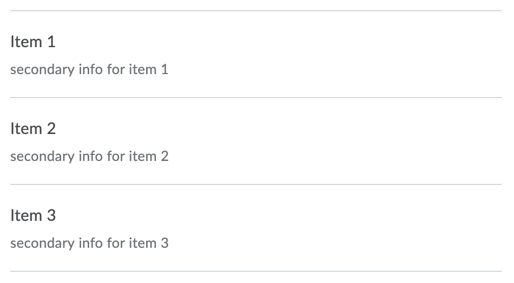
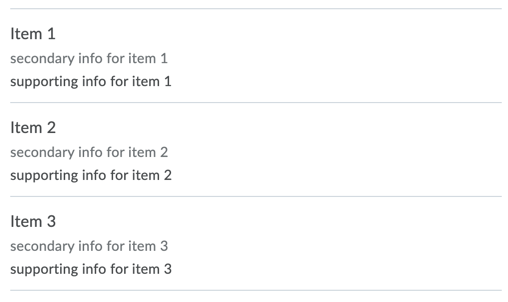
Update readme for d2l-list-item-button.

diff --git a/components/list/README.md b/components/list/README.md
@@ -2,7 +2,7 @@
 
 ## d2l-list
 
-The `d2l-list` is the container to create a styled list of items using `d2l-list-item`. It provide the appropriate `list` semantics as well as options for displaying separators, etc.
+The `d2l-list` is the container to create a styled list of items using `d2l-list-item` or `d2l-list-item-button`. It provide the appropriate `list` semantics as well as options for displaying separators, etc.
 
 ![List](./screenshots/list.png?raw=true)
 
@@ -58,7 +58,7 @@ The `grid` attribute will enable a table-like keyboard grid that allows a user t
 
 ## d2l-list-item
 
-The `d2l-list-item` provides the appropriate `listitem` semantics for children within a list. It also provides some basic layout, breakpoints for responsiveness, a link for navigation, and selection. This extends `ListItemMixin` and has all the same use cases as the mixin.
+The `d2l-list-item` provides the appropriate `listitem` semantics for children within a list. It also provides some basic layout, breakpoints for responsiveness, a navigation link for the primary action, and selection. It extends `ListItemLinkMixin` and `ListItemMixin` and has all the same use cases as the mixin.
 
 ![List](./screenshots/list-item.png?raw=true)
 
@@ -83,6 +83,32 @@ The `d2l-list-item` provides the appropriate `listitem` semantics for children w
 | Property | Type | Description |
 |--|--|--|
 | `href` | String | Address of item link if navigable |
+
+## d2l-list-item-button
+
+The `d2l-list-item-button` provides the same functionality as `d2l-list-item` except with button semantics for its primary action. It extends `ListItemButtonMixin` and `ListItemMixin` and has all the same use cases as the mixin.
+
+![List](./screenshots/list-item.png?raw=true)
+
+```html
+<d2l-list-item-button breakpoints="array"
+  @d2l-list-item-button-click="..."
+  key="item1"
+  selectable
+  selected
+  disabled>
+  <img src="..." slot="illustration">
+  <div>...</div>
+  <div slot="actions">
+    <d2l-button-icon ...></d2l-button-icon>
+    <d2l-button-icon ...></d2l-button-icon>
+  </div>
+</d2l-list-item-button>
+```
+
+**Events**
+
+- `d2l-list-item-button-click`: dispatched when the item's primary button action is clicked
 
 ## ListItemMixin
 
@@ -148,7 +174,7 @@ Where the parameters correspond to the slots of `d2l-list-item`:
 
 **Accessibility**
 
-- `drag-handle-text`: The label for screenreaders for the drag handle. If implementing drag 'n' drop, you should change this to dynamically announce what the drag-handle is moving for screenreaders for use in keyboard mode.
+- `drag-handle-text`: The drag-handle label for assistive technology. If implementing drag & drop, you should change this to dynamically announce what the drag-handle is moving for assistive technology in keyboard mode.
 
 ## d2l-list-item-content
 
@@ -160,16 +186,17 @@ The `d2l-list-item-content` provides additional consistent layout for primary an
 <d2l-list-item>
   <d2l-list-item-content>
     <div>Item 1</div>
-    <div slot="supporting-info">secondary info for item 1</div>
+    <div slot="secondary">Secondary Info for item 1</div>
+    <div slot="supporting-info">Supporting info for item 1</div>
   </d2l-list-item-content>
 </d2l-list-item>
 ```
 
-## Drag 'n' drop lists
+## Drag & Drop Lists
 
-The `d2l-list` supports drag 'n' drop.
+The `d2l-list` supports drag & drop.
 
-![List](./screenshots/dragndrop.gif?raw=true)
+![List](./screenshots/drag-and-drop.gif?raw=true)
 
 Because the list itself is a rendering component, there is some light work involved in hooking up this behaviour.
 
@@ -184,7 +211,7 @@ import '../list.js';
 import { html, LitElement } from 'lit-element/lit-element.js';
 import { repeat } from 'lit-html/directives/repeat';
 
-class ListDemoDragNDropUsage extends LitElement {
+class ListDemoDragAndDropUsage extends LitElement {
   static get properties() {
     return {
       list: { type: Array }
